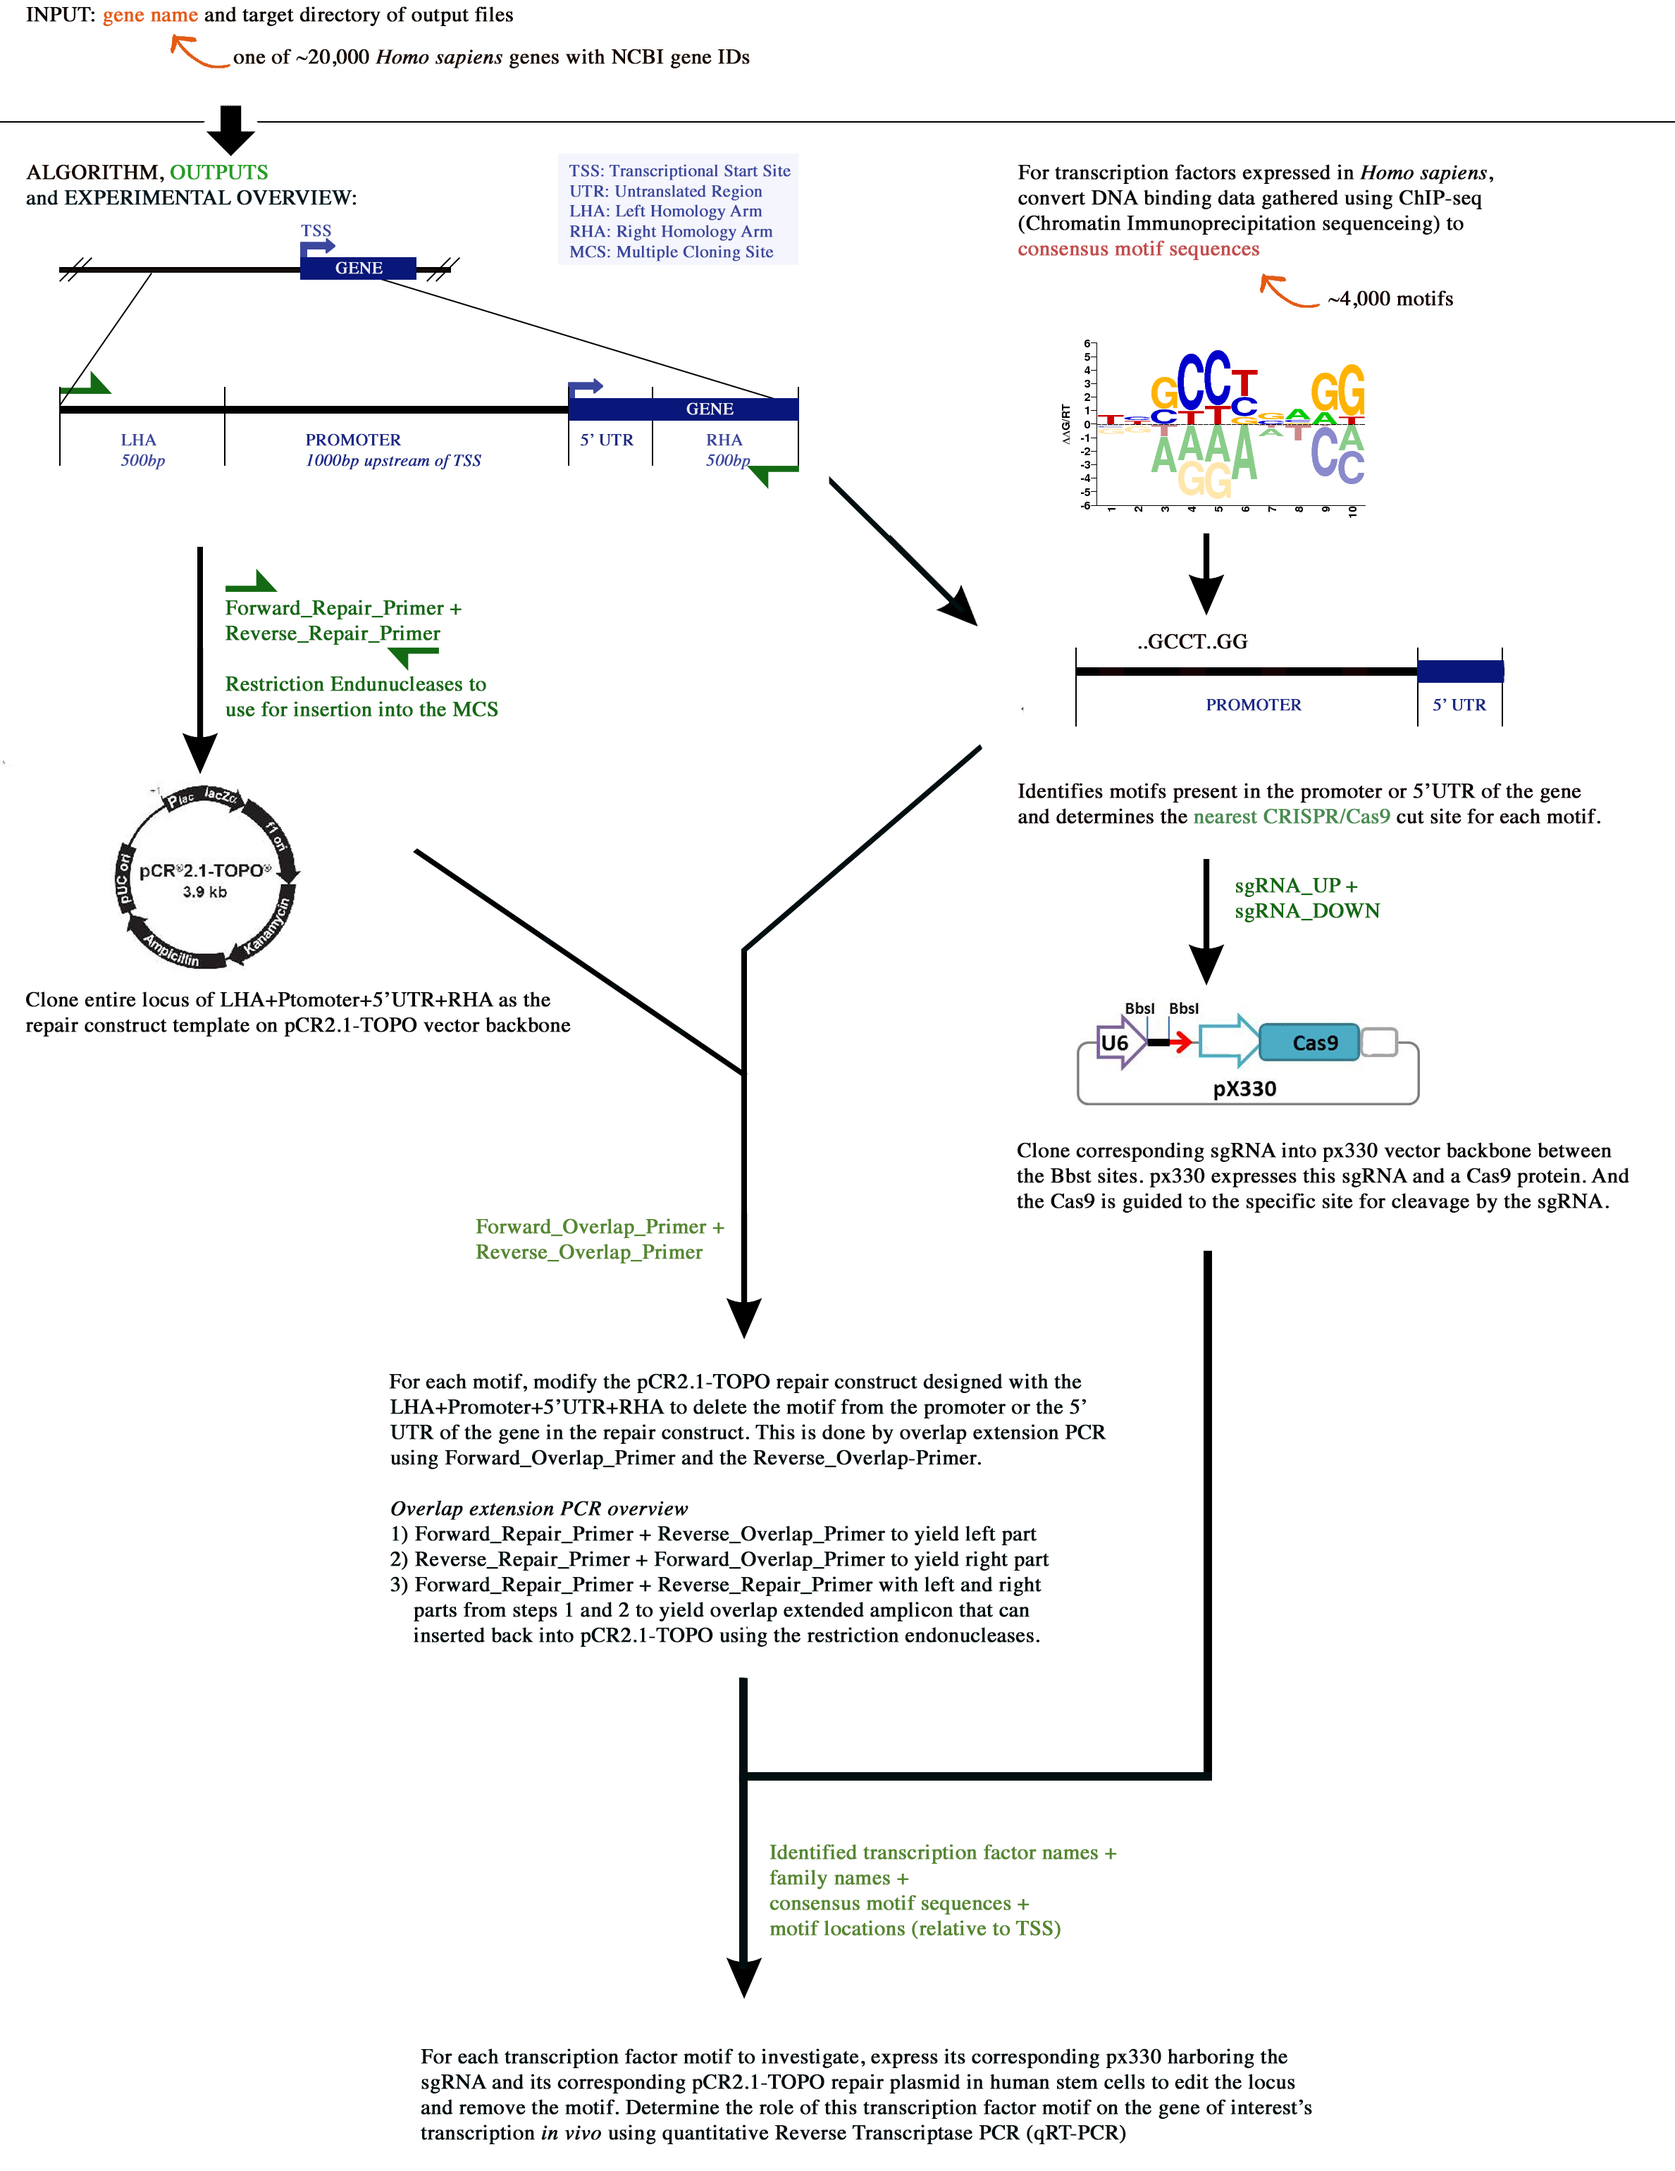
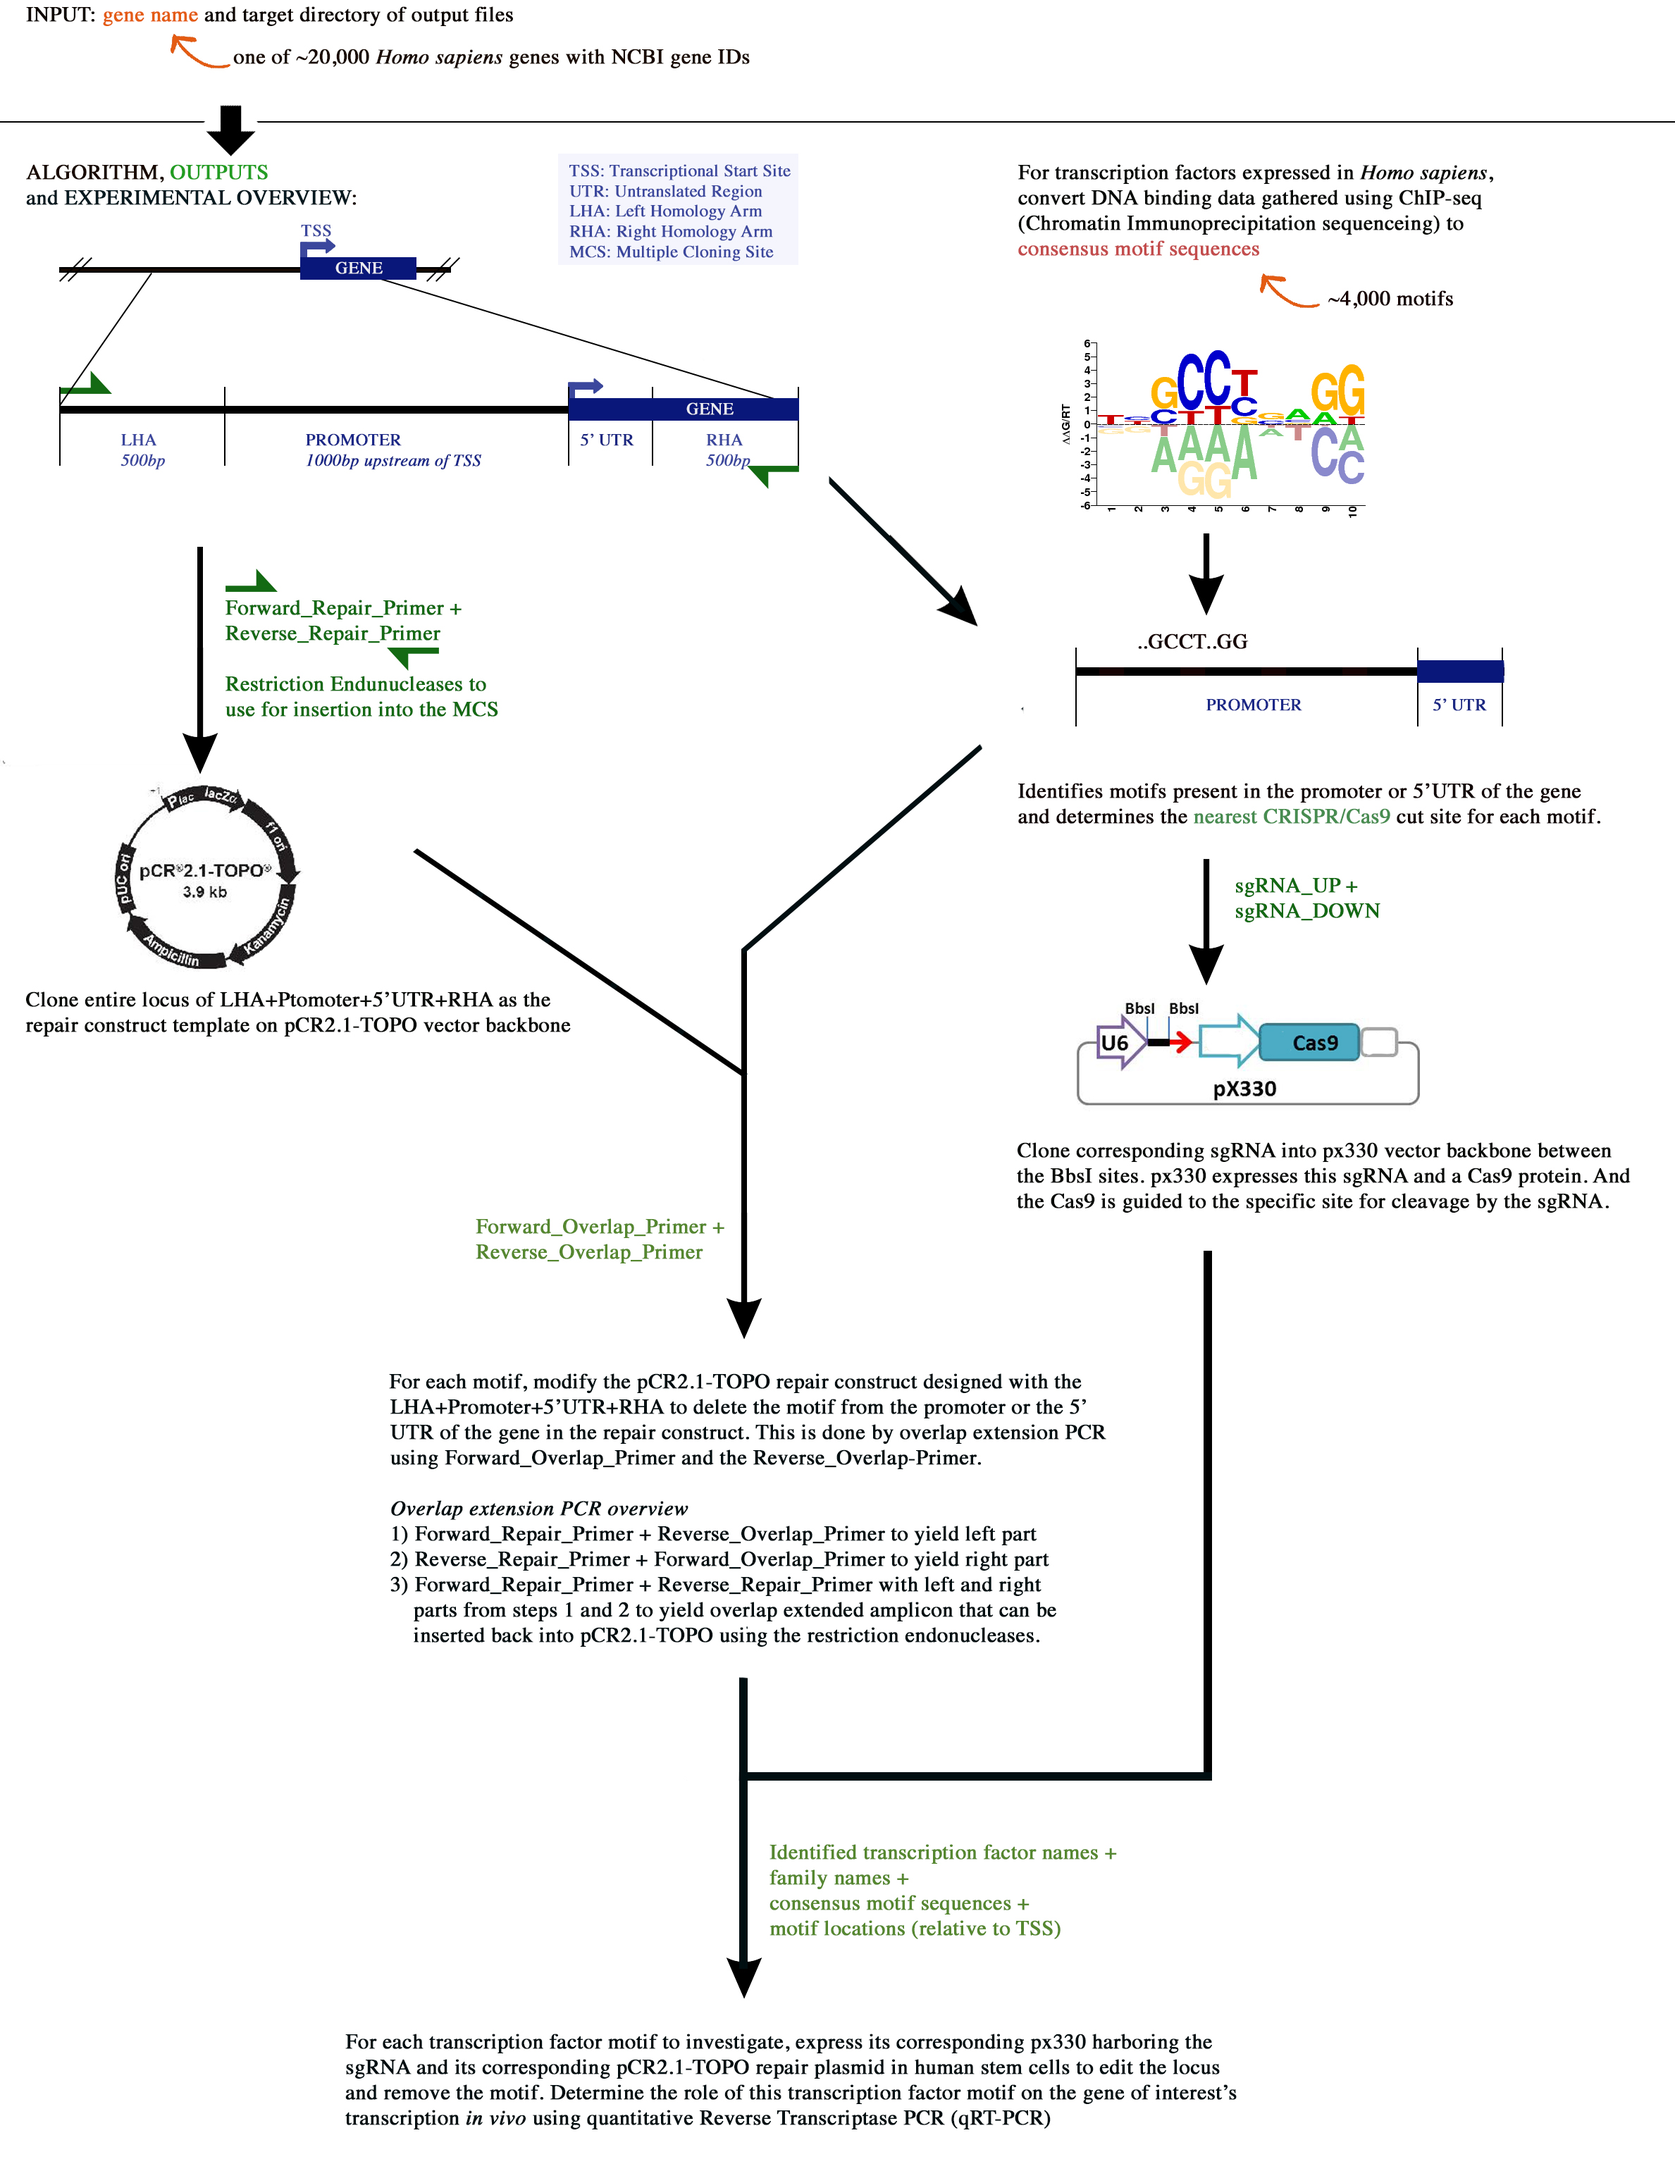
Minor tweaks

Changed region(s): [[0.1868, 0.9348, 0.7783, 0.9971]]

diff --git a/src/org/ucb/c5/composition/InvestigatePromoter.java b/src/org/ucb/c5/composition/InvestigatePromoter.java
@@ -72,7 +72,7 @@ public class InvestigatePromoter {
         pw.println();
         pw.println("------------------------------");
         pw.println();
-        pw.println("Using this repair construct... For each of the TF motifs identified below, use the Forward_Overlap_Primer and Reverse_Overlap_Primer in an overlab-extension strategy (see outline in README) to devise unique constructs that remove the TF motif.");
+        pw.println("Using this repair construct... For each of the TF motifs identified below, use the Forward_Overlap_Primer and Reverse_Overlap_Primer in an overlap-extension strategy (see outline in README) to devise unique constructs that remove the TF motif.");
         pw.println();
         pw.println("Similarly for each TF motif identified below, use the sgRNA_UP and sgRNA_DOWN in the cloning protocol of px330 constructs.");
         pw.println("The cloning protocol of px330 constructs is adapted from Zhang Lab protocols for CRISPR/Cas9 systems in mammalian cells.");

diff --git a/src/org/ucb/c5/composition/RepairConstructStrategy.java b/src/org/ucb/c5/composition/RepairConstructStrategy.java
@@ -47,7 +47,7 @@ public class RepairConstructStrategy {
         RestrictionEndonucleaseSites.add("GAGCTC");
         RestrictionEndonucleases.put("GAGCTC", "SacI");
         RestrictionEndonucleaseSites.add("ACTAGT");
-        RestrictionEndonucleases.put("ACTAGC", "SpeI");
+        RestrictionEndonucleases.put("ACTAGT", "SpeI");
         RestrictionEndonucleaseSites.add("CTTAAG");
         RestrictionEndonucleases.put("CTTAAG", "AflII");
         RestrictionEndonucleaseSites.add("GCGGCCGC");
